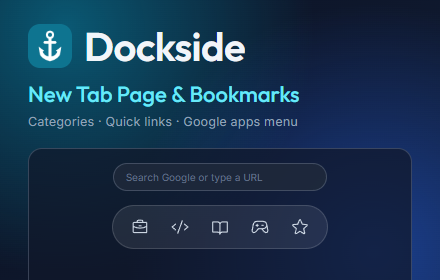
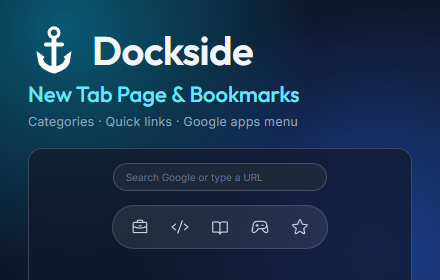
style: bare anchor mark in app headers and promo tile, no colored card

Changed region(s): [[0.0591, 0.0857, 0.5909, 0.2571]]

diff --git a/.0/STORE_BUILDS/promo/tile.html b/.0/STORE_BUILDS/promo/tile.html
@@ -5,7 +5,7 @@ html,body{margin:0}
 body{width:440px;height:280px;overflow:hidden;font-family:Inter,system-ui,sans-serif;color:#f1f5f9;position:relative;
 background:radial-gradient(circle at 85% 90%,rgba(37,99,235,.5),transparent 55%),radial-gradient(circle at 15% 10%,rgba(8,145,178,.55),transparent 55%),linear-gradient(135deg,#0b1224,#111c33)}
 .top{position:absolute;left:28px;top:24px;display:flex;align-items:center;gap:12px}
-.top img{width:44px;height:44px;border-radius:12px}
+.top img{width:52px;height:52px}
 h1{font-family:Outfit,Inter,sans-serif;font-weight:600;font-size:40px;margin:0;letter-spacing:-.5px;line-height:1}
 .sub{position:absolute;left:28px;top:80px;font-family:Outfit,Inter,sans-serif;font-weight:500;font-size:22px;color:#67e8f9}
 .tag{position:absolute;left:28px;top:114px;font-size:12.5px;color:#94a3b8;letter-spacing:.2px}
@@ -15,7 +15,7 @@ h1{font-family:Outfit,Inter,sans-serif;font-weight:600;font-size:40px;margin:0;l
 .dock div{width:30px;height:30px;border-radius:50%;display:flex;align-items:center;justify-content:center;color:#cbd5e1}
 .dock svg{width:18px;height:18px}
 </style></head><body>
-<div class="top"><img src="../../../icons/icon128.png" alt=""><h1>Dockside</h1></div>
+<div class="top"><img src="../../../icons/logo-mark.svg" alt="" style="filter:brightness(0) invert(1)"><h1>Dockside</h1></div>
 <div class="sub">New Tab Page &amp; Bookmarks</div>
 <div class="tag">Categories &middot; Quick links &middot; Google apps menu</div>
 <div class="mock"><div class="search">Search Google or type a URL</div><div class="dock" id="d"></div></div>

diff --git a/popup.css b/popup.css
@@ -37,14 +37,13 @@ body {
   width: 32px;
   height: 32px;
   flex-shrink: 0;
-  background: var(--accent);
-  border-radius: var(--radius-small);
+  background: none;
   color: var(--text);
 }
 
 .brand-tile svg {
-  width: 24px;
-  height: 24px;
+  width: 32px;
+  height: 32px;
   fill: currentColor;
 }
 

diff --git a/manage.css b/manage.css
@@ -34,14 +34,13 @@
   width: 36px;
   height: 36px;
   flex-shrink: 0;
-  background: var(--accent);
-  border-radius: var(--radius-small);
+  background: none;
   color: var(--text);
 }
 
 .brand-tile svg {
-  width: 24px;
-  height: 24px;
+  width: 32px;
+  height: 32px;
   fill: currentColor;
 }
 
